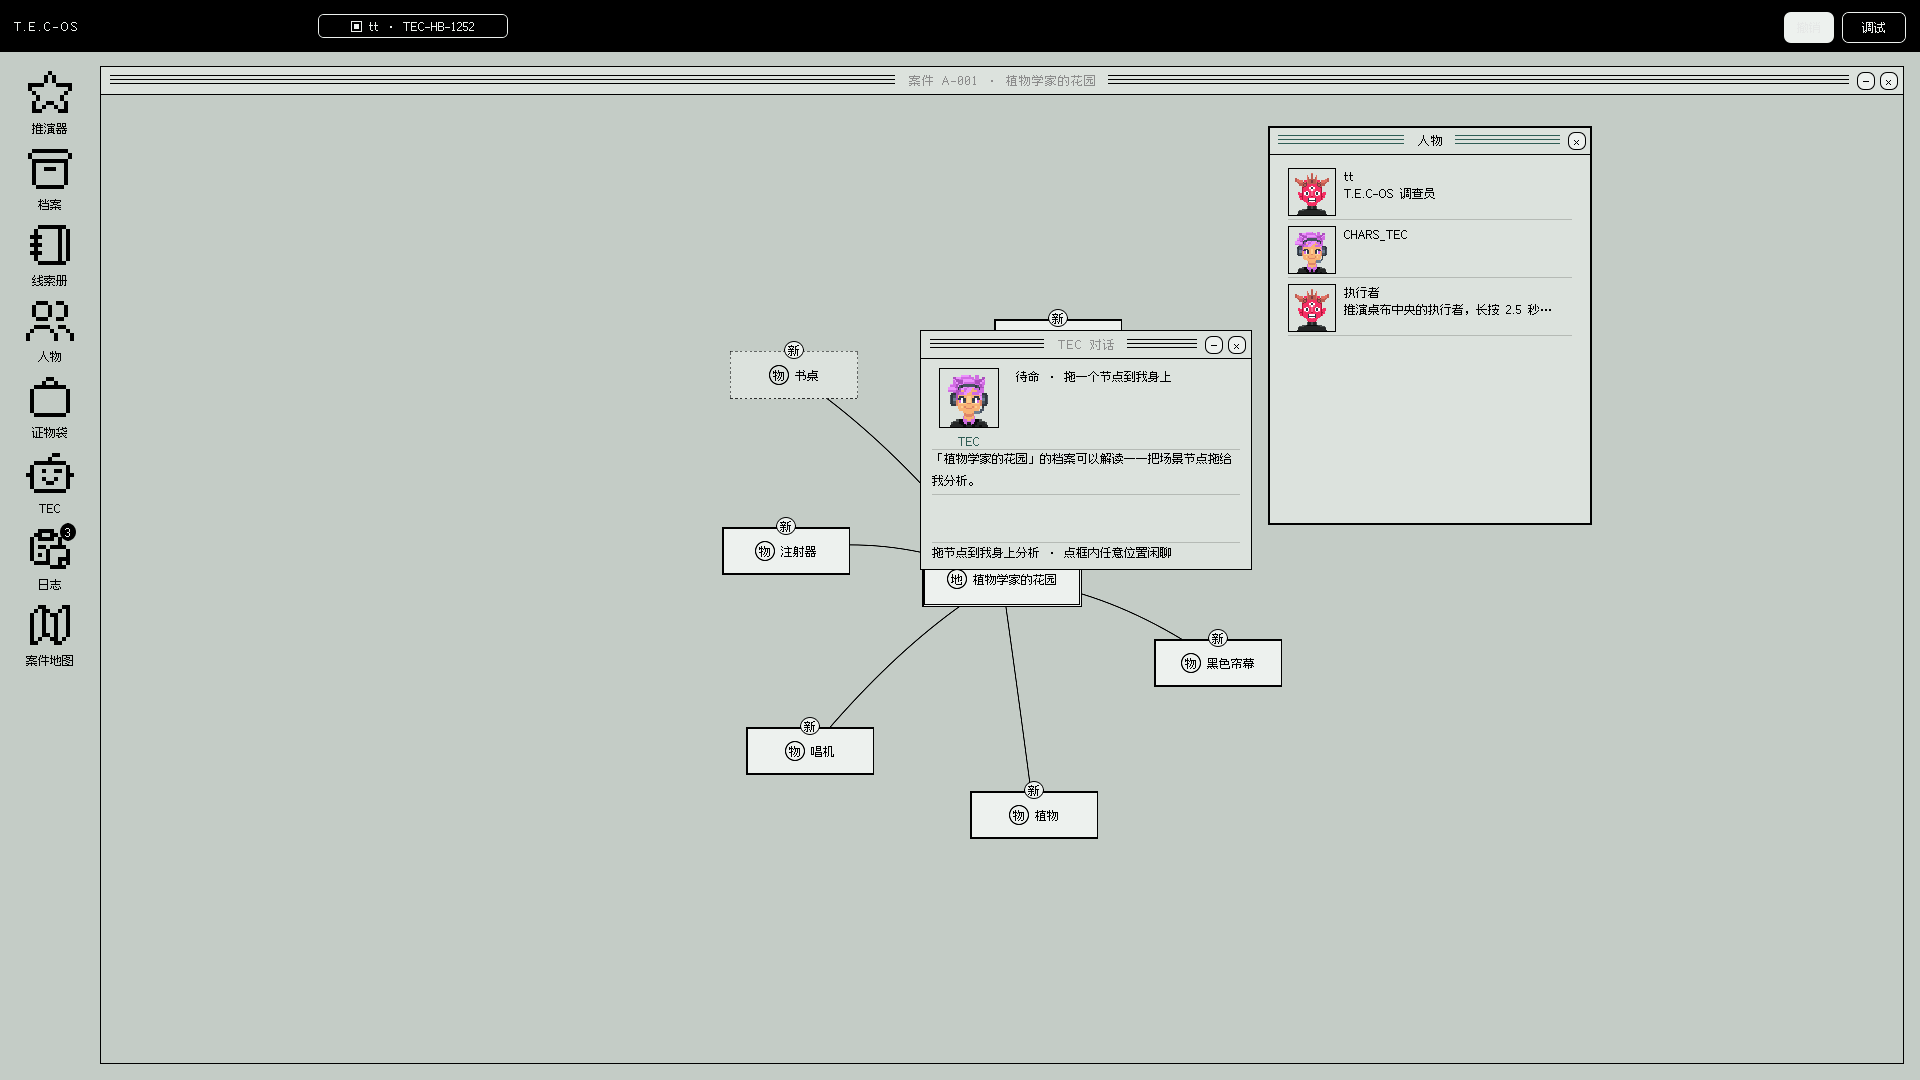
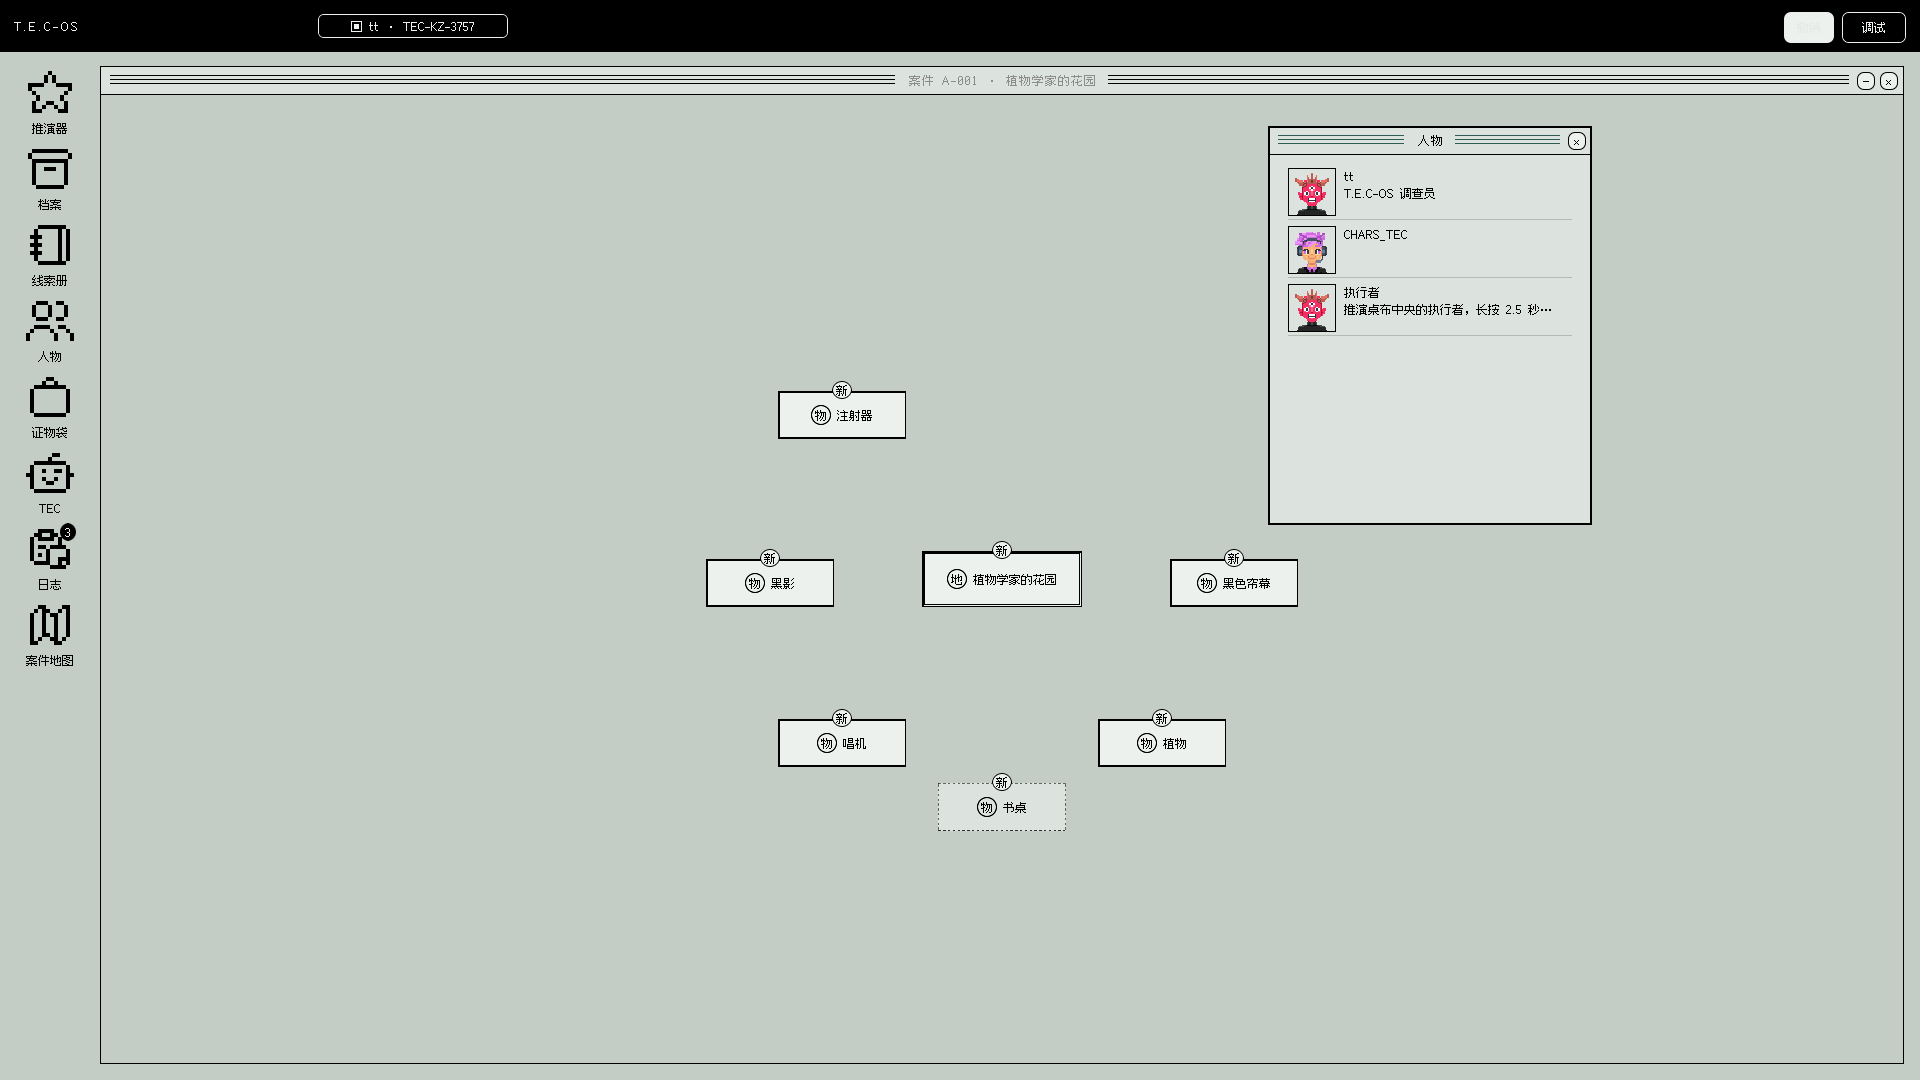
修正展开布局与收纳属性：新卡不再缩成符号，幽灵线压过窗体
展开容器时只给新出现/新上画的节点在锚点周围找位置，已有卡片不整体漂移；自动 fit 以 0.95 为文字底线，镜头不再把标题缩成符号。ItemDef 新增 baggable，抽屉/书桌/垃圾桶/帘幕显式关闭，证物袋准入统一走该属性。拖动幽灵线在桌布根增加置顶绘制层，压在系统窗之上。F3 复用卡片时先恢复矩阵遮挡再重算，避免 process_mode 卡死。全套 1695 项、test_p28 4/4、mono_audit 通过。

Changed region(s): [[0.3438, 0.4889, 0.6875, 0.7944], [0.4062, 0.275, 0.6562, 0.4278], [0.375, 0.6417, 0.4688, 0.7333]]

diff --git a/ydgodot/docs/BACKLOG.md b/ydgodot/docs/BACKLOG.md
@@ -2,7 +2,7 @@
 
 > 日期：2026-10-25
 > 本文档是全项目**唯一待办口径**——各计划文档里的已完成内容不再重复，只列未完成与待拍板。
-> 质量基线：**全套无头 16 脚本 1683 项 0 失败**；`mono_audit.py --check` 通过。
+> 质量基线：**全套无头 16 脚本 1695 项 0 失败**；`mono_audit.py --check` 通过。
 
 ---
 
@@ -31,3 +31,4 @@
 - **F 组**：`ForceLayout` 分帧、卡片增量 reconcile、提交 JSON 缓存、hidden 邻接表、日志增量/Cap、花园阶段缓存。基准见 `UX_FLOW_PLAN.md` §8 与 `tests/headless/bench_perf.gd`。
 - **§7 标签退役**：正文不再解析 `[item:/loc:/char:/clue:/data:]`；线索走 `hidden_clue.clues` / `commands.clues` / `reactions.clues`；`tags_of` / `strip_tags` 已删除，`CaseLoader.validate_text_clean()` 拒收回灌。
 - **C-B/C-D/C-E**：强调青接入选中环 / 悬停键线 / 激活窗条纹 / TEC 品牌 / 进度条；`mono_audit.py` 登记六个三层常量与材质色文件域；960×560 / 1280×720 / 1920×1080 六面截图已刷新到 `docs/aesthetic/`。
+- **2026-10-25 用户反馈追加**：展开容器时只给新节点找位置，旧卡不漂移、镜头不自动缩小；自动 fit 设 0.95 文字底线；`ItemDef.baggable` 显式控制能否进证物袋（抽屉 / 书桌 / 垃圾桶 / 帘幕关闭）；拖动幽灵线提升到窗口之上。

diff --git a/ydgodot/docs/UX_FLOW_PLAN.md b/ydgodot/docs/UX_FLOW_PLAN.md
@@ -233,4 +233,5 @@ G 组从「教学缺失」转为「卡关救济与目标感」。
 - **F9**：花园按阶段缓存贴图 / stylebox / 标签；20 株 × 30 次刷新，阶段换装 **600→0**，进度条仍逐次更新。
 - **§7-2/§7-3**：正文标签全部迁移；`tags_of`/`strip_tags` 删除，`CaseLoader.validate_text_clean()` 在任何 `[xxx:` 回灌时拒绝装载。`tools/retire_tags.gd` 为一次性迁移脚本，`json_to_tres.gd` 支持 `node_*` / `clues` 结构化字段。
 - **基准脚本**：`tests/headless/bench_perf.gd`（F1/F4/F5/F6/F9；不进全量回归，数字可复跑）。
-- **回归**：全套 16 脚本 **1683 项 0 失败**；`test_p28` 4/4；`mono_audit.py --check` 通过。
+- **回归**：全套 16 脚本 **1695 项 0 失败**；`test_p28` 4/4；`mono_audit.py --check` 通过。
+- **用户反馈追加**：常规展开改为「只摆新卡」稳定落位（旧卡不动、不自动 fit）；自动 fit 加 0.95 文字底线；`ItemDef.baggable`；拖动幽灵线在桌布根再画一层，压过窗口。
